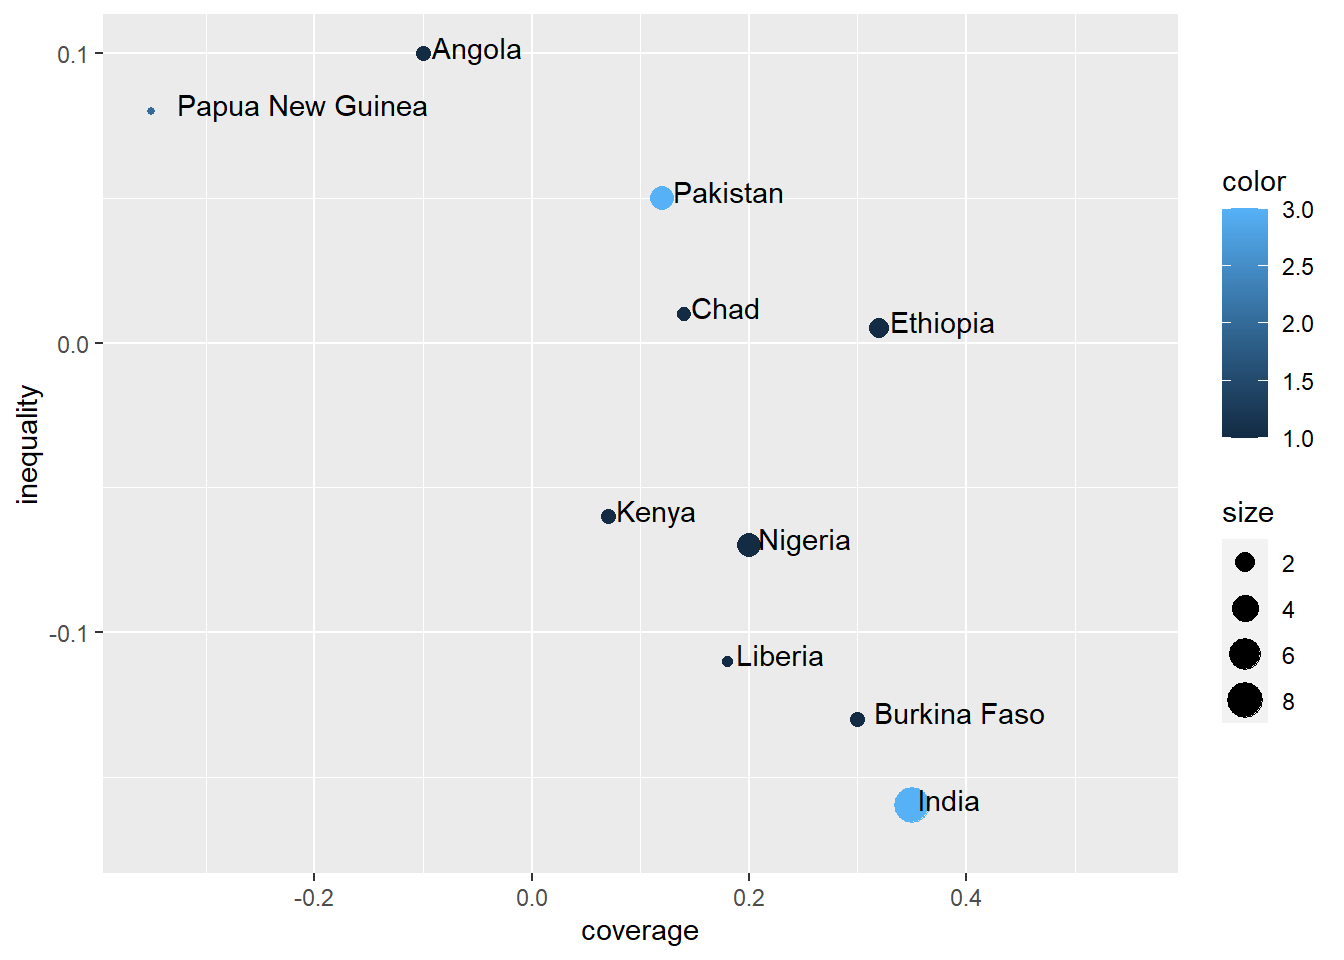
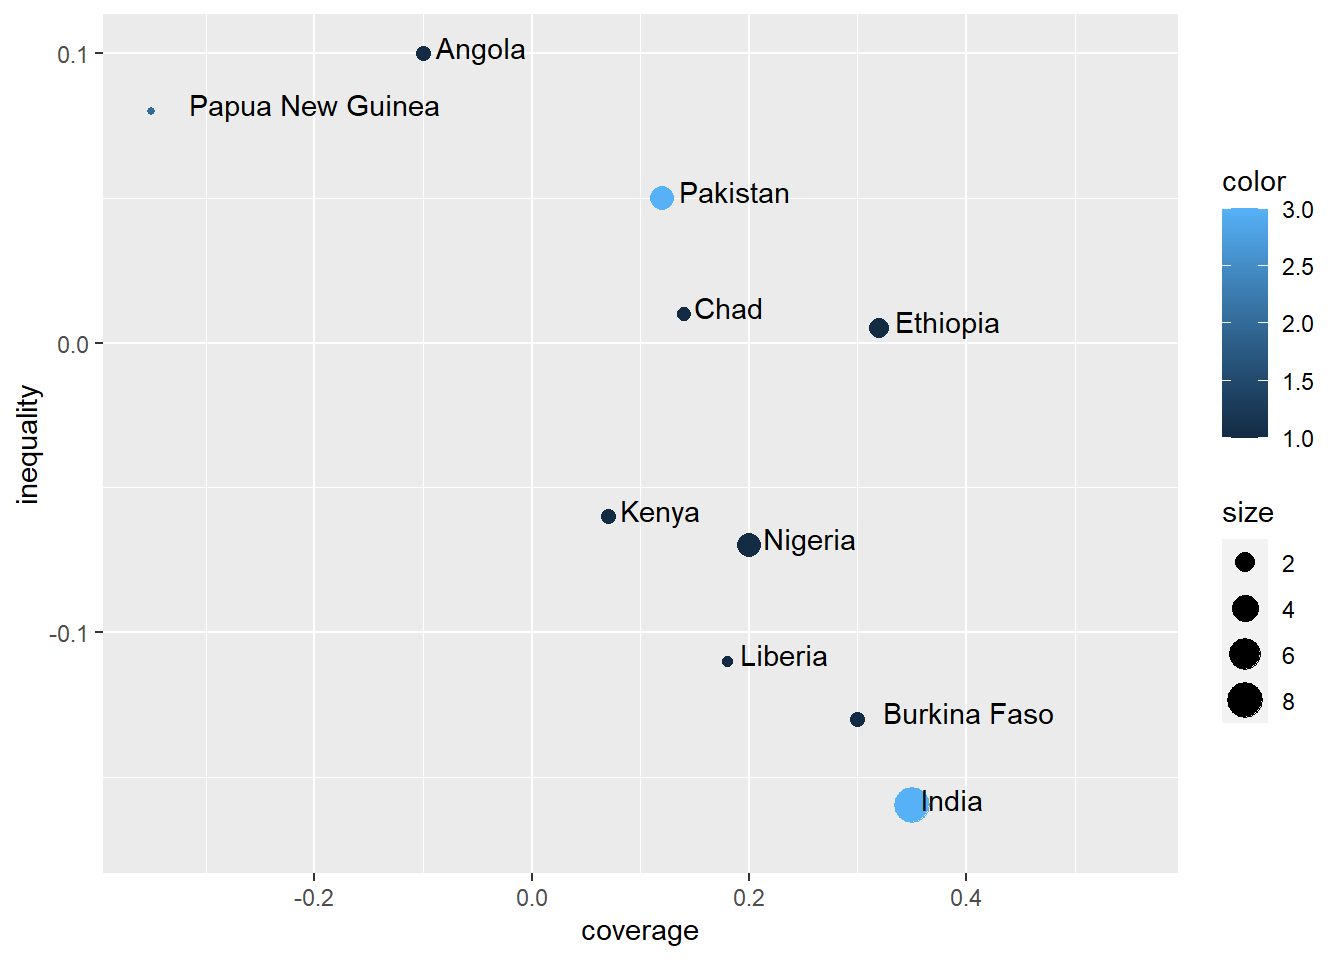
minor update

diff --git a/docs/viz-practice.html b/docs/viz-practice.html
@@ -304,7 +304,7 @@ gtag('config', 'G-RDC0B0FCNZ', { 'anonymize_ip': true});
 <div class="cell">
 <div class="sourceCode cell-code" id="cb6"><pre class="sourceCode r code-with-copy"><code class="sourceCode r"><span id="cb6-1"><a href="#cb6-1" aria-hidden="true" tabindex="-1"></a><span class="fu">ggplot</span>(df_plot, <span class="fu">aes</span>(<span class="at">x =</span> coverage, <span class="at">y =</span> inequality)) <span class="sc">+</span></span>
 <span id="cb6-2"><a href="#cb6-2" aria-hidden="true" tabindex="-1"></a>  <span class="fu">geom_point</span>() <span class="sc">+</span></span>
-<span id="cb6-3"><a href="#cb6-3" aria-hidden="true" tabindex="-1"></a>  <span class="fu">geom_text</span>(<span class="fu">aes</span>(<span class="at">label =</span> country), <span class="at">hjust =</span> <span class="sc">-</span><span class="fl">0.1</span>, <span class="at">vjust =</span> <span class="fl">0.2</span>) <span class="sc">+</span></span>
+<span id="cb6-3"><a href="#cb6-3" aria-hidden="true" tabindex="-1"></a>  <span class="fu">geom_text</span>(<span class="fu">aes</span>(<span class="at">label =</span> country), <span class="at">hjust =</span> <span class="sc">-</span><span class="fl">0.15</span>, <span class="at">vjust =</span> <span class="fl">0.2</span>) <span class="sc">+</span></span>
 <span id="cb6-4"><a href="#cb6-4" aria-hidden="true" tabindex="-1"></a>  <span class="fu">xlim</span>(<span class="fu">c</span>(<span class="sc">-</span><span class="fl">0.35</span>, <span class="fl">0.55</span>)) <span class="sc">+</span></span>
 <span id="cb6-5"><a href="#cb6-5" aria-hidden="true" tabindex="-1"></a>  <span class="fu">ylim</span>(<span class="fu">c</span>(<span class="sc">-</span><span class="fl">0.17</span>, <span class="fl">0.1</span>))</span></code><button title="Copy to Clipboard" class="code-copy-button"><i class="bi"></i></button></pre></div>
 <div class="cell-output-display">
@@ -334,7 +334,7 @@ gtag('config', 'G-RDC0B0FCNZ', { 'anonymize_ip': true});
 <div class="cell">
 <div class="sourceCode cell-code" id="cb9"><pre class="sourceCode r code-with-copy"><code class="sourceCode r"><span id="cb9-1"><a href="#cb9-1" aria-hidden="true" tabindex="-1"></a><span class="fu">ggplot</span>(df_plot, <span class="fu">aes</span>(<span class="at">x =</span> coverage, <span class="at">y =</span> inequality)) <span class="sc">+</span></span>
 <span id="cb9-2"><a href="#cb9-2" aria-hidden="true" tabindex="-1"></a>  <span class="fu">geom_point</span>(<span class="fu">aes</span>(<span class="at">size =</span> size, <span class="at">color =</span> color)) <span class="sc">+</span></span>
-<span id="cb9-3"><a href="#cb9-3" aria-hidden="true" tabindex="-1"></a>  <span class="fu">geom_text</span>(<span class="fu">aes</span>(<span class="at">label =</span> country), <span class="at">hjust =</span> <span class="sc">-</span><span class="fl">0.1</span>, <span class="at">vjust =</span> <span class="fl">0.2</span>) <span class="sc">+</span></span>
+<span id="cb9-3"><a href="#cb9-3" aria-hidden="true" tabindex="-1"></a>  <span class="fu">geom_text</span>(<span class="fu">aes</span>(<span class="at">label =</span> country), <span class="at">hjust =</span> <span class="sc">-</span><span class="fl">0.15</span>, <span class="at">vjust =</span> <span class="fl">0.2</span>) <span class="sc">+</span></span>
 <span id="cb9-4"><a href="#cb9-4" aria-hidden="true" tabindex="-1"></a>  <span class="fu">xlim</span>(<span class="fu">c</span>(<span class="sc">-</span><span class="fl">0.35</span>, <span class="fl">0.55</span>)) <span class="sc">+</span></span>
 <span id="cb9-5"><a href="#cb9-5" aria-hidden="true" tabindex="-1"></a>  <span class="fu">ylim</span>(<span class="fu">c</span>(<span class="sc">-</span><span class="fl">0.17</span>, <span class="fl">0.1</span>))</span></code><button title="Copy to Clipboard" class="code-copy-button"><i class="bi"></i></button></pre></div>
 <div class="cell-output-display">
@@ -376,7 +376,7 @@ gtag('config', 'G-RDC0B0FCNZ', { 'anonymize_ip': true});
 <span id="cb12-2"><a href="#cb12-2" aria-hidden="true" tabindex="-1"></a>df_plot<span class="sc">$</span>color <span class="ot">&lt;-</span> <span class="fu">factor</span>(df_plot<span class="sc">$</span>color)</span>
 <span id="cb12-3"><a href="#cb12-3" aria-hidden="true" tabindex="-1"></a><span class="fu">ggplot</span>(df_plot, <span class="fu">aes</span>(<span class="at">x =</span> coverage, <span class="at">y =</span> inequality)) <span class="sc">+</span></span>
 <span id="cb12-4"><a href="#cb12-4" aria-hidden="true" tabindex="-1"></a>  <span class="fu">geom_point</span>(<span class="fu">aes</span>(<span class="at">size =</span> size, <span class="at">color =</span> color)) <span class="sc">+</span></span>
-<span id="cb12-5"><a href="#cb12-5" aria-hidden="true" tabindex="-1"></a>  <span class="fu">geom_text</span>(<span class="fu">aes</span>(<span class="at">label =</span> country), <span class="at">hjust =</span> <span class="sc">-</span><span class="fl">0.1</span>, <span class="at">vjust =</span> <span class="fl">0.2</span>) <span class="sc">+</span></span>
+<span id="cb12-5"><a href="#cb12-5" aria-hidden="true" tabindex="-1"></a>  <span class="fu">geom_text</span>(<span class="fu">aes</span>(<span class="at">label =</span> country), <span class="at">hjust =</span> <span class="sc">-</span><span class="fl">0.15</span>, <span class="at">vjust =</span> <span class="fl">0.2</span>) <span class="sc">+</span></span>
 <span id="cb12-6"><a href="#cb12-6" aria-hidden="true" tabindex="-1"></a>  <span class="fu">xlim</span>(<span class="fu">c</span>(<span class="sc">-</span><span class="fl">0.35</span>, <span class="fl">0.55</span>)) <span class="sc">+</span></span>
 <span id="cb12-7"><a href="#cb12-7" aria-hidden="true" tabindex="-1"></a>  <span class="fu">ylim</span>(<span class="fu">c</span>(<span class="sc">-</span><span class="fl">0.17</span>, <span class="fl">0.1</span>))</span></code><button title="Copy to Clipboard" class="code-copy-button"><i class="bi"></i></button></pre></div>
 <div class="cell-output-display">
